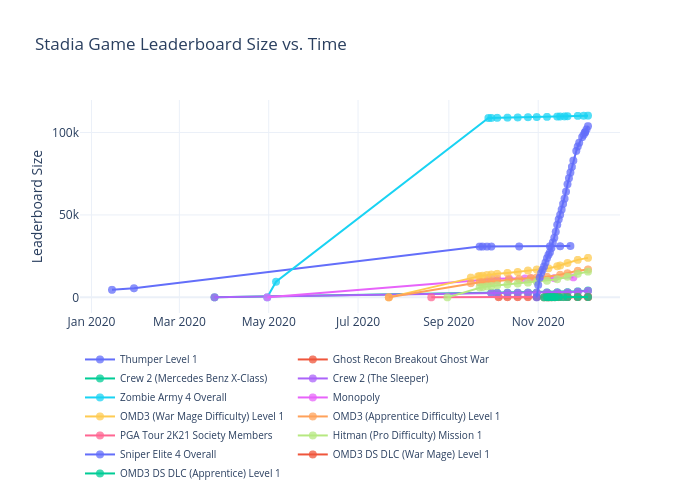
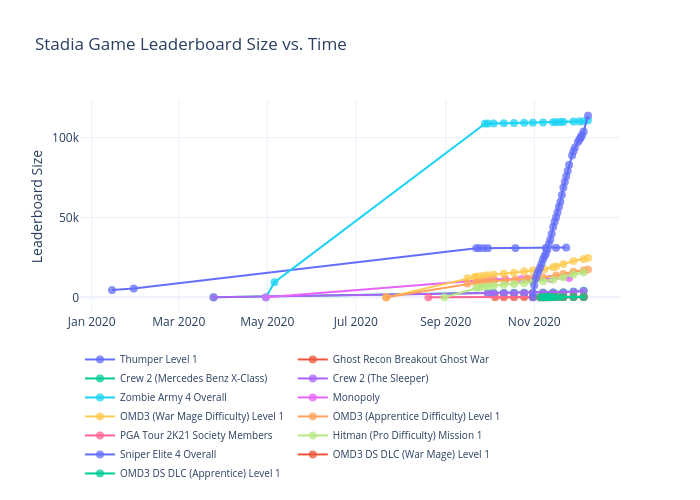
Add files via upload
Tuesday data

diff --git a/leaderboards/figure.js b/leaderboards/figure.js
@@ -79,6 +79,7 @@ var figure = {
                 "2020-12-03",
                 "2020-12-04",
                 "2020-12-05",
+                "2020-12-08",
                 "2020-12-12",
                 "2020-12-19",
                 "2020-12-26",
@@ -231,6 +232,7 @@ var figure = {
                 "2020-12-03",
                 "2020-12-04",
                 "2020-12-05",
+                "2020-12-08",
                 "2020-12-12",
                 "2020-12-19",
                 "2020-12-26",
@@ -395,6 +397,7 @@ var figure = {
                 "2020-12-03",
                 "2020-12-04",
                 "2020-12-05",
+                "2020-12-08",
                 "2020-12-12",
                 "2020-12-19",
                 "2020-12-26",
@@ -559,6 +562,7 @@ var figure = {
                 "2020-12-03",
                 "2020-12-04",
                 "2020-12-05",
+                "2020-12-08",
                 "2020-12-12",
                 "2020-12-19",
                 "2020-12-26",
@@ -723,6 +727,7 @@ var figure = {
                 "2020-12-03",
                 "2020-12-04",
                 "2020-12-05",
+                "2020-12-08",
                 "2020-12-12",
                 "2020-12-19",
                 "2020-12-26",
@@ -797,7 +802,8 @@ var figure = {
                 null,
                 "",
                 "",
-                "110223"
+                "110223",
+                "110851"
             ],
             "marker": {
                 "size": 8,
@@ -887,6 +893,7 @@ var figure = {
                 "2020-12-03",
                 "2020-12-04",
                 "2020-12-05",
+                "2020-12-08",
                 "2020-12-12",
                 "2020-12-19",
                 "2020-12-26",
@@ -1041,6 +1048,7 @@ var figure = {
                 "2020-12-03",
                 "2020-12-04",
                 "2020-12-05",
+                "2020-12-08",
                 "2020-12-12",
                 "2020-12-19",
                 "2020-12-26",
@@ -1115,7 +1123,8 @@ var figure = {
                 null,
                 "",
                 "",
-                "23957"
+                "23957",
+                "24699"
             ],
             "marker": {
                 "size": 8,
@@ -1205,6 +1214,7 @@ var figure = {
                 "2020-12-03",
                 "2020-12-04",
                 "2020-12-05",
+                "2020-12-08",
                 "2020-12-12",
                 "2020-12-19",
                 "2020-12-26",
@@ -1279,7 +1289,8 @@ var figure = {
                 null,
                 "",
                 "",
-                "16912"
+                "16912",
+                "17427"
             ],
             "marker": {
                 "size": 8,
@@ -1369,6 +1380,7 @@ var figure = {
                 "2020-12-03",
                 "2020-12-04",
                 "2020-12-05",
+                "2020-12-08",
                 "2020-12-12",
                 "2020-12-19",
                 "2020-12-26",
@@ -1533,6 +1545,7 @@ var figure = {
                 "2020-12-03",
                 "2020-12-04",
                 "2020-12-05",
+                "2020-12-08",
                 "2020-12-12",
                 "2020-12-19",
                 "2020-12-26",
@@ -1697,6 +1710,7 @@ var figure = {
                 "2020-12-03",
                 "2020-12-04",
                 "2020-12-05",
+                "2020-12-08",
                 "2020-12-12",
                 "2020-12-19",
                 "2020-12-26",
@@ -1771,7 +1785,8 @@ var figure = {
                 "100114",
                 "100114",
                 "101881",
-                "103851"
+                "103851",
+                "113769"
             ],
             "marker": {
                 "size": 8,
@@ -1861,6 +1876,7 @@ var figure = {
                 "2020-12-03",
                 "2020-12-04",
                 "2020-12-05",
+                "2020-12-08",
                 "2020-12-12",
                 "2020-12-19",
                 "2020-12-26",
@@ -2025,6 +2041,7 @@ var figure = {
                 "2020-12-03",
                 "2020-12-04",
                 "2020-12-05",
+                "2020-12-08",
                 "2020-12-12",
                 "2020-12-19",
                 "2020-12-26",
@@ -2118,8 +2135,8 @@ var figure = {
         "xaxis": {
             "type": "date",
             "range": [
-                "2019-12-25 15:11:21.6541",
-                "2020-12-25 08:48:38.3459"
+                "2019-12-25 10:40:38.1001",
+                "2020-12-28 13:19:21.8999"
             ],
             "title": {
                 "text": ""
@@ -2129,8 +2146,8 @@ var figure = {
         "yaxis": {
             "type": "linear",
             "range": [
-                -8277.386739359834,
-                118500.38673935983
+                -8550.739943542696,
+                122319.73994354269
             ],
             "title": {
                 "text": "Leaderboard Size"
